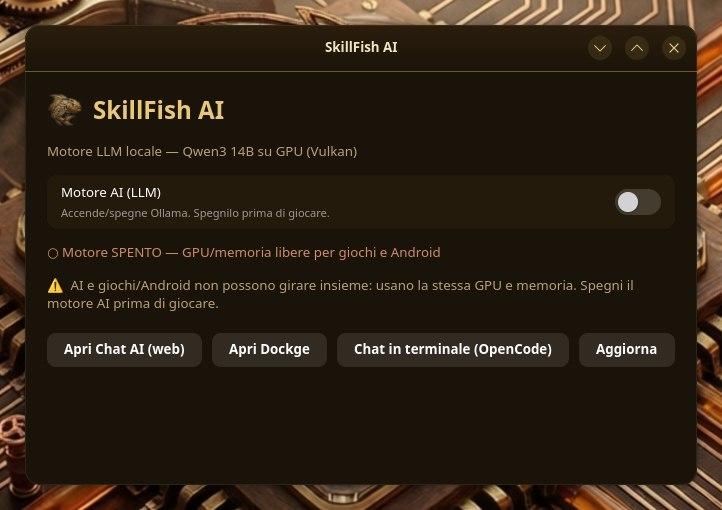
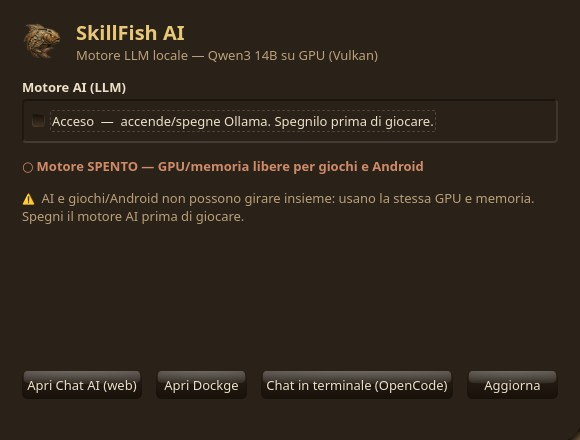
docs+screenshots: refresh AI panel image and embed it in the docs
New clean capture of the SkillFishOS AI panel (local Qwen3 14B engine on
the Vulkan GPU, on/off toggle, web chat / Dockge / OpenCode buttons).
Updates img/ai-panel.jpg (site + SourceForge wiki + README) and embeds it
in the Native apps and On-device AI pages (IT + EN).

diff --git a/website/src/content/docs/en/ai-locale.md b/website/src/content/docs/en/ai-locale.md
@@ -7,6 +7,8 @@ order: 2
 
 SkillFishOS includes a **local AI** stack: chat and coding models that run entirely on the BC-250's GPU, **with no cloud** and without sending data anywhere. It turns on and off with one click, so you free up GPU and RAM when you want to play.
 
+![SkillFishOS AI panel — turns the local LLM engine (Qwen3 14B, Vulkan) on/off and opens web chat, Dockge or OpenCode](/img/ai-panel.jpg)
+
 ## Why Vulkan and not ROCm
 
 AMD's "official" compute stack is **ROCm**, but it **does not support** the BC-250's `gfx1013`. SkillFishOS therefore uses the **Vulkan** backend of [Ollama](https://ollama.com/), with the Mesa drivers: it works well on the integrated GPU, leveraging the shared memory (and the extended GTT, see [GPU](/en/docs/gpu-overclock)).

diff --git a/website/src/content/docs/en/app-native.md b/website/src/content/docs/en/app-native.md
@@ -41,6 +41,8 @@ Architecture: a user GUI plus a small **root daemon** that performs the privileg
 
 The **AI panel** turns the local LLM stack on and off with one click, freeing GPU and RAM for games when not needed. It's the "easy" front-end of the stack described in [On-device AI](/en/docs/ai-locale).
 
+![SkillFishOS AI panel — local LLM engine (Qwen3 14B) on the Vulkan GPU, on/off with one click](/img/ai-panel.jpg)
+
 ## Why they exist
 
 SkillFishOS's goal is that **anyone** — including the youngest — can use and tune the system without having to learn terminal commands. These apps translate complex operations (SMU governor, kernel parameters, Docker containers) into a few clicks, while keeping the **safeguards** (thermal-guard, test-and-rollback) always active.

diff --git a/website/src/content/docs/it/ai-locale.md b/website/src/content/docs/it/ai-locale.md
@@ -7,6 +7,8 @@ order: 2
 
 SkillFishOS include uno stack di **intelligenza artificiale locale**: modelli di chat e coding che girano interamente sulla GPU della BC-250, **senza cloud** e senza inviare dati all'esterno. Si accende e spegne con un clic, così da liberare GPU e RAM quando vuoi giocare.
 
+![Pannello AI di SkillFishOS — accende/spegne il motore LLM locale (Qwen3 14B, Vulkan) e apre chat web, Dockge o OpenCode](/img/ai-panel.jpg)
+
 ## Perché Vulkan e non ROCm
 
 Lo stack AMD "ufficiale" per il calcolo è **ROCm**, ma **non supporta la `gfx1013`** della BC-250. SkillFishOS usa quindi il backend **Vulkan** di [Ollama](https://ollama.com/), con i driver Mesa: funziona bene sulla GPU integrata sfruttando la memoria condivisa (e il GTT esteso, vedi [GPU](/docs/gpu-overclock)).

diff --git a/website/src/content/docs/it/app-native.md b/website/src/content/docs/it/app-native.md
@@ -41,6 +41,8 @@ Architettura: una GUI utente più un piccolo **daemon di root** che esegue le op
 
 Il **pannello AI** accende e spegne lo stack LLM locale con un clic, liberando GPU e RAM per i giochi quando non serve. È il front-end "facile" dello stack descritto in [AI in locale](/docs/ai-locale).
 
+![Pannello AI di SkillFishOS — motore LLM locale (Qwen3 14B) su GPU Vulkan, acceso/spento con un clic](/img/ai-panel.jpg)
+
 ## Perché esistono
 
 L'obiettivo di SkillFishOS è che **chiunque** — compresi i più piccoli — possa usare e regolare il sistema senza dover imparare comandi da terminale. Queste app traducono operazioni complesse (governor SMU, parametri del kernel, container Docker) in pochi clic, mantenendo le **protezioni** (thermal-guard, test-and-rollback) sempre attive.